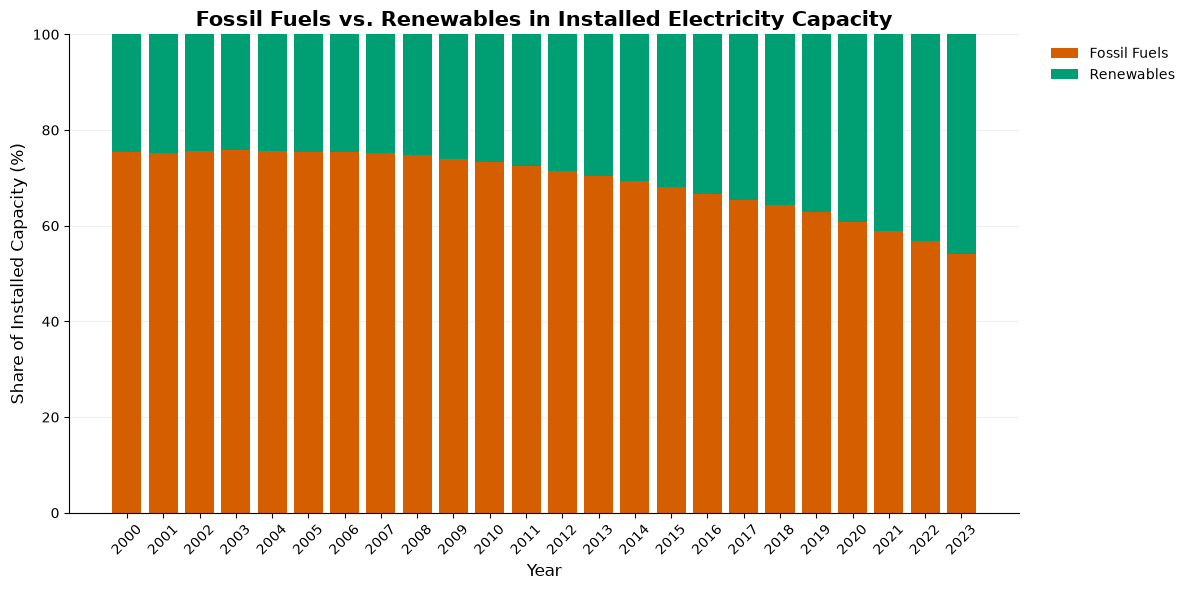
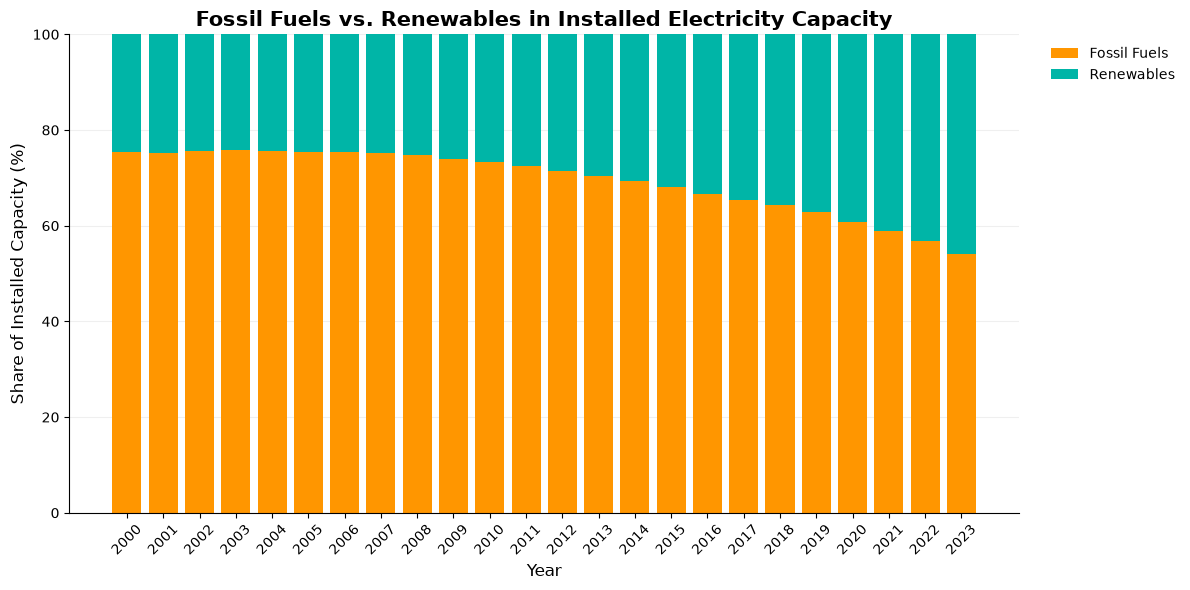
feat: add some content

diff --git a/index.html b/index.html
@@ -151,7 +151,8 @@
             <p>
                 <strong>James Jing Yue Qian</strong> — jjqian@ucsd.edu<br>
                 <strong>Sean Liu</strong> — shl223@ucsd.edu<br>
-                <strong>Darren Ha</strong> — d9ha@ucsd.edu
+                <strong>Darren Ha</strong> — d9ha@ucsd.edu<br>
+                <strong>Yang Hu</strong> — yfhu@ucsd.edu<br>
             </p>
 
         </header>
@@ -174,9 +175,25 @@
                 <p>Design Decisions and Rationale:</p>
 
                 <ul>
-                    <li>RATIONALE_1</li>
-                    <li>RATIONALE_2</li>
-                    <li>RATIONALE_3</li>
+                    <li>We combined the various renewable energy sources under the category of 
+                        “Renewables” to create a clearer contrast between renewable energy and 
+                        fossil fuels. This grouping simplifies the visualization and makes it 
+                        easier for viewers to compare the two major energy categories.</li>
+                    <li>We chose teal (#00B5A7) for renewables and orange (#FF9600) for fossil 
+                        fuels because they provide a clear visual distinction between the two 
+                        categories. This helps viewers distinguish the energy sources, including 
+                        some viewers with color-vision deficiencies. We also maintained consistent 
+                        color assignments across both visualizations to make comparisons between 
+                        them easier.</li>
+                    <li>We used the indicator “Electricity Installed Capacity, Megawatt” to highlight 
+                        the growth of renewable energy infrastructure worldwide. Increasing installed 
+                        capacity suggests that the world is expanding its ability to generate electricity 
+                        from renewable sources, supporting the proposition that the world is beginning 
+                        to rely less on fossil fuels.</li>
+                    <li>We used a stacked bar chart to show changes in the composition of global 
+                        electricity generation capacity over time. By displaying fossil fuels and 
+                        renewables together, the chart emphasizes the changing balance between these 
+                        energy sources and makes the growth of renewables more visually apparent.</li>
                 </ul>
             </section>
 
@@ -192,9 +209,26 @@
                 <p>Design Decisions and Rationale:</p>
 
                 <ul>
-                    <li>RATIONALE_1</li>
-                    <li>RATIONALE_2</li>
-                    <li>RATIONALE_3</li>
+                    <li>We combined the various renewable energy sources under the category of 
+                        “Renewables” to create a clearer contrast between renewable energy and 
+                        fossil fuels. This grouping simplifies the visualization and makes it 
+                        easier for viewers to compare the two major energy categories.</li>
+                    <li>We chose teal (#00B5A7) for renewables and orange (#FF9600) for fossil 
+                        fuels because they provide a clear visual distinction between the two 
+                        categories. This helps viewers distinguish the energy sources, including 
+                        some viewers with color-vision deficiencies. We also maintained consistent 
+                        color assignments across both visualizations to make comparisons between 
+                        them easier.</li>
+                    <li>We used the indicator “Electricity Generation, Gigawatt hours” to emphasize 
+                        the amount of electricity actually produced by each energy source. This 
+                        highlights the continued contribution of fossil fuels to global electricity 
+                        generation and challenges the idea that the world is already moving away 
+                        from fossil fuels.</li>
+                    <li>We used a line graph to illustrate changes in electricity generation over 
+                        time. The graph emphasizes that fossil-fuel electricity generation continues 
+                        to grow alongside renewable generation, suggesting that the expansion of 
+                        renewable energy has not necessarily resulted in an absolute decline in 
+                        fossil-fuel electricity production.</li>
                 </ul>
             </section>
 
